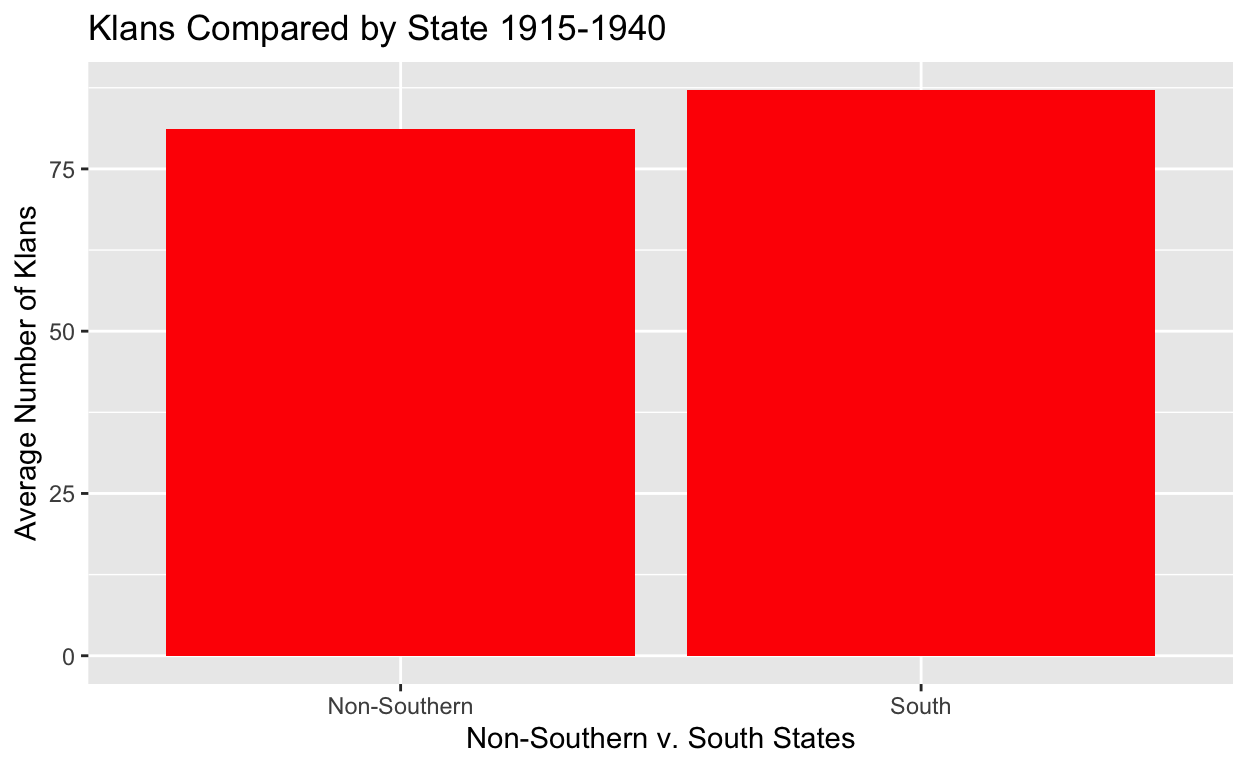
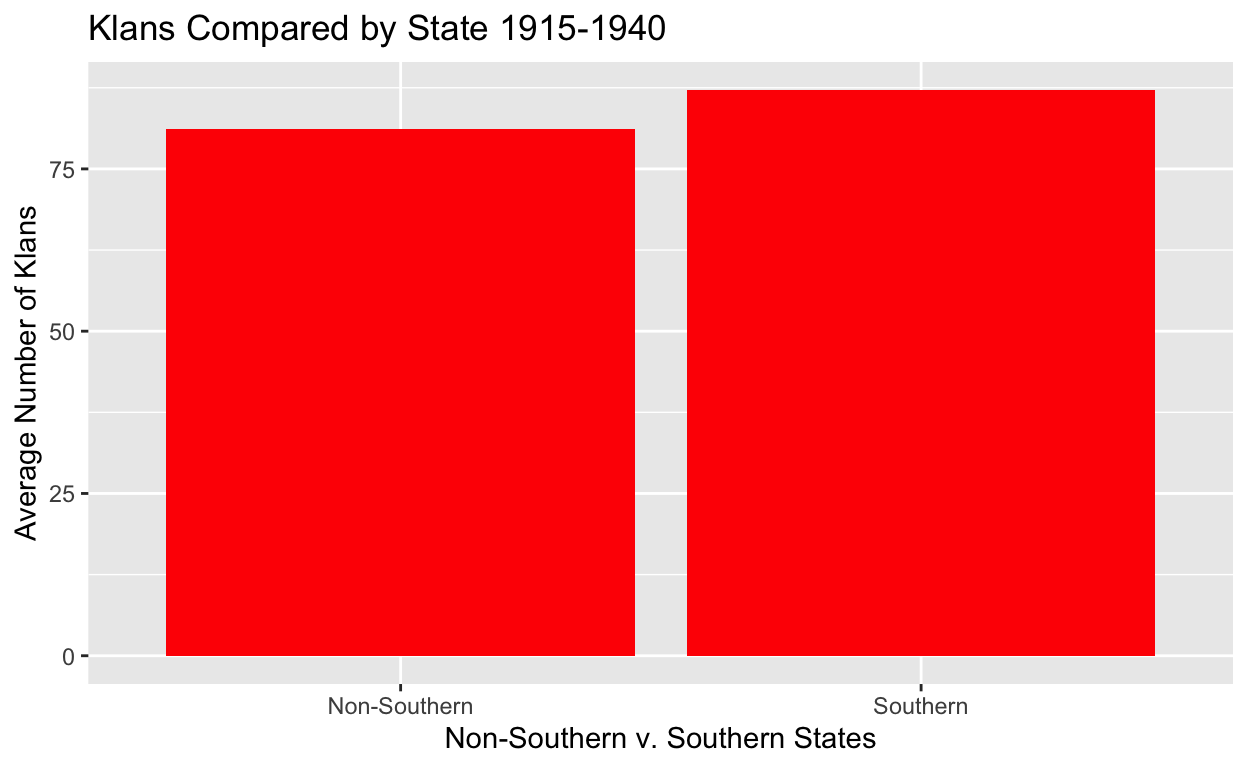
milestone 4

Changed region(s): [[0.3438, 0.9062, 0.7812, 1.0]]

diff --git a/index.html b/index.html
@@ -1570,20 +1570,46 @@ code span.wa { color: #5e5e5e; font-style: italic; } /* Warning */
 <pre class="sourceCode r"><code class="sourceCode r"><span><span class='kw'><a href='https://rdrr.io/r/base/library.html'>library</a></span><span class='op'>(</span><span class='va'><a href='https://ggplot2.tidyverse.org'>ggplot2</a></span><span class='op'>)</span></span>
 <span><span class='kw'><a href='https://rdrr.io/r/base/library.html'>library</a></span><span class='op'>(</span><span class='va'><a href='https://broom.tidymodels.org/'>broom</a></span><span class='op'>)</span></span>
 <span><span class='va'>south_states</span> <span class='op'>=</span> <span class='fu'><a href='https://rdrr.io/r/base/c.html'>c</a></span><span class='op'>(</span><span class='st'>"Alabama"</span>, <span class='st'>"Arkansas"</span>, <span class='st'>"Florida"</span>, <span class='st'>"Georgia"</span>, <span class='st'>"Louisiana"</span>, <span class='st'>"Mississippi"</span>, <span class='st'>"North Carolina"</span>, <span class='st'>"South Carolina"</span>, <span class='st'>"Tennessee"</span>, <span class='st'>"Texas"</span>, <span class='st'>"Virginia"</span> <span class='op'>)</span></span>
+<span><span class='va'>klans</span> <span class='op'>&lt;-</span> <span class='va'>klans</span> <span class='op'>|&gt;</span></span>
+<span>  <span class='fu'><a href='https://dplyr.tidyverse.org/reference/mutate.html'>mutate</a></span><span class='op'>(</span>if_South <span class='op'>=</span> <span class='fu'><a href='https://dplyr.tidyverse.org/reference/if_else.html'>if_else</a></span><span class='op'>(</span><span class='va'>state</span> <span class='op'><a href='https://rdrr.io/r/base/match.html'>%in%</a></span> <span class='va'>south_states</span>, <span class='st'>"Southern"</span>, <span class='st'>"Non-Southern"</span><span class='op'>)</span><span class='op'>)</span> </span>
+<span>  </span>
 <span><span class='va'>plot</span> <span class='op'>&lt;-</span> <span class='va'>klans</span> <span class='op'>|&gt;</span></span>
-<span>  <span class='fu'><a href='https://dplyr.tidyverse.org/reference/mutate.html'>mutate</a></span><span class='op'>(</span>if_South <span class='op'>=</span> <span class='fu'><a href='https://dplyr.tidyverse.org/reference/if_else.html'>if_else</a></span><span class='op'>(</span><span class='va'>state</span> <span class='op'><a href='https://rdrr.io/r/base/match.html'>%in%</a></span> <span class='va'>south_states</span>, <span class='st'>"South"</span>, <span class='st'>"Non-Southern"</span><span class='op'>)</span><span class='op'>)</span> <span class='op'>|&gt;</span></span>
 <span>  <span class='fu'><a href='https://dplyr.tidyverse.org/reference/group_by.html'>group_by</a></span><span class='op'>(</span><span class='va'>if_South</span><span class='op'>)</span> <span class='op'>|&gt;</span></span>
 <span>  <span class='fu'><a href='https://dplyr.tidyverse.org/reference/summarise.html'>summarize</a></span><span class='op'>(</span>mean_klan <span class='op'>=</span> <span class='fu'><a href='https://rdrr.io/r/base/mean.html'>mean</a></span><span class='op'>(</span><span class='va'>klan_number</span>, na.rm <span class='op'>=</span> <span class='cn'>T</span><span class='op'>)</span><span class='op'>)</span> <span class='op'>|&gt;</span></span>
 <span>  <span class='fu'><a href='https://ggplot2.tidyverse.org/reference/ggplot.html'>ggplot</a></span><span class='op'>(</span><span class='fu'><a href='https://ggplot2.tidyverse.org/reference/aes.html'>aes</a></span><span class='op'>(</span>x <span class='op'>=</span> <span class='va'>if_South</span>, y <span class='op'>=</span> <span class='va'>mean_klan</span><span class='op'>)</span><span class='op'>)</span> <span class='op'>+</span> </span>
 <span>  <span class='fu'><a href='https://ggplot2.tidyverse.org/reference/geom_bar.html'>geom_col</a></span><span class='op'>(</span>binwidth <span class='op'>=</span> <span class='fl'>0.5</span>, fill <span class='op'>=</span> <span class='st'>"red"</span><span class='op'>)</span> <span class='op'>+</span></span>
 <span>  <span class='fu'><a href='https://ggplot2.tidyverse.org/reference/scale_discrete.html'>scale_x_discrete</a></span><span class='op'>(</span><span class='op'>)</span> <span class='op'>+</span></span>
 <span>  <span class='fu'><a href='https://ggplot2.tidyverse.org/reference/labs.html'>labs</a></span><span class='op'>(</span></span>
-<span>    x <span class='op'>=</span> <span class='st'>"Non-Southern v. South States"</span>,</span>
+<span>    x <span class='op'>=</span> <span class='st'>"Non-Southern v. Southern States"</span>,</span>
 <span>    y <span class='op'>=</span> <span class='st'>"Average Number of Klans"</span>,</span>
 <span>    title <span class='op'>=</span> <span class='st'>"Klans Compared by State 1915-1940"</span><span class='op'>)</span>  </span>
 <span><span class='va'>plot</span></span></code></pre>
 </div>
 <p><img src="index_files/figure-html5/unnamed-chunk-2-1.png" alt="" width="624" /></p>
+</div>
+<div class="layout-chunk" data-layout="l-body">
+<div class="sourceCode">
+<pre class="sourceCode r"><code class="sourceCode r"><span><span class='va'>table</span> <span class='op'>&lt;-</span> <span class='va'>klans</span> <span class='op'>|&gt;</span></span>
+<span>  <span class='fu'><a href='https://dplyr.tidyverse.org/reference/group_by.html'>group_by</a></span><span class='op'>(</span><span class='va'>if_South</span><span class='op'>)</span> <span class='op'>|&gt;</span></span>
+<span>  <span class='fu'><a href='https://dplyr.tidyverse.org/reference/summarise.html'>summarize</a></span><span class='op'>(</span>mean_klan <span class='op'>=</span> <span class='fu'><a href='https://rdrr.io/r/base/mean.html'>mean</a></span><span class='op'>(</span><span class='va'>klan_number</span>, na.rm <span class='op'>=</span> <span class='cn'>T</span><span class='op'>)</span><span class='op'>)</span> <span class='op'>|&gt;</span></span>
+<span> <span class='fu'><a href='https://tidyr.tidyverse.org/reference/pivot_wider.html'>pivot_wider</a></span><span class='op'>(</span>names_from <span class='op'>=</span> <span class='va'>if_South</span>,</span>
+<span>              values_from <span class='op'>=</span> <span class='va'>mean_klan</span><span class='op'>)</span></span>
+<span><span class='fu'>knitr</span><span class='fu'>::</span><span class='fu'><a href='https://rdrr.io/pkg/knitr/man/kable.html'>kable</a></span><span class='op'>(</span><span class='va'>table</span><span class='op'>)</span></span></code></pre>
+</div>
+<table>
+<thead>
+<tr class="header">
+<th style="text-align: right;">Non-Southern</th>
+<th style="text-align: right;">Southern</th>
+</tr>
+</thead>
+<tbody>
+<tr class="odd">
+<td style="text-align: right;">81.14101</td>
+<td style="text-align: right;">87.13773</td>
+</tr>
+</tbody>
+</table>
 </div>
 <div class="sourceCode" id="cb2"><pre class="sourceCode r distill-force-highlighting-css"><code class="sourceCode r"></code></pre></div>
 <!--radix_placeholder_article_footer-->
